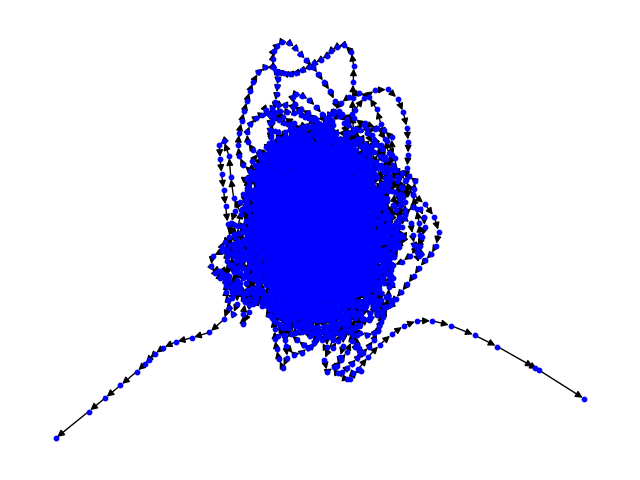
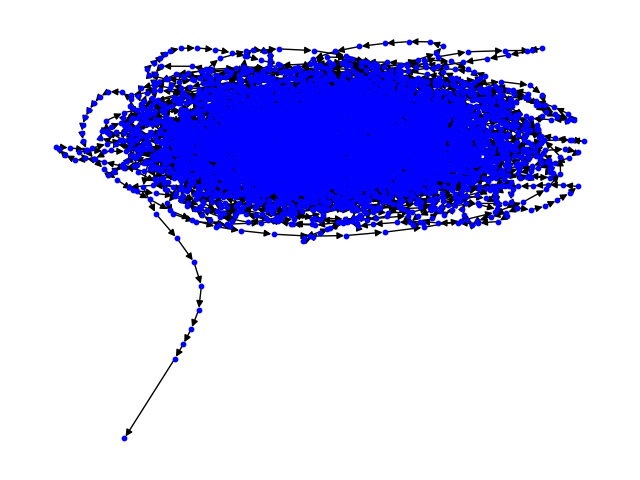
final

diff --git a/debruijn/debruijn.py b/debruijn/debruijn.py
@@ -290,34 +290,27 @@ def solve_entry_tips(graph, starting_nodes):
 
 
     :param graph: (nx.DiGraph) A directed graph object
-    :return: (nx.DiGraph) A directed graph object
+    :param starting_nodes: (list) List of starting nodes
+    :return: (nx.DiGraph) A directed graph object without unwanted entry paths
     """
 
 
-    nodes_with_multiple_predecessors = [node for node, degree in graph.in_degree() if degree > 1]
-    
-    for node in nodes_with_multiple_predecessors:
+
+
+    for node in list(graph.nodes):
+        all_paths_for_node = []
         predecessors = list(graph.predecessors(node))
-        
-        if any(predecessor in starting_nodes for predecessor in predecessors):
-            # Extract paths from starting nodes to the current node
-            paths_from_starting = [list(nx.all_simple_paths(graph, source=start, target=node))[0] for start in starting_nodes if nx.has_path(graph, start, node)]
-            
-            # Calculate the weights of these paths
-            path_weights = []
-            for path in paths_from_starting:
-                weights = [graph[path[i]][path[i+1]].get('weight', 1) for i in range(len(path)-1)]
-                path_weights.append(sum(weights))
-            
-            # Determine the main path
-            main_path_index = path_weights.index(max(path_weights))
-            
-            # Remove other paths
-            for i, path in enumerate(paths_from_starting):
-                if i != main_path_index:
-                    for j in range(len(path) - 1):
-                        graph.remove_edge(path[j], path[j+1])
-    
+        if len(predecessors)>1:
+                for start_node in starting_nodes:
+                    if node not in starting_nodes:
+                        paths =  list(nx.all_simple_paths(graph, start_node, node))
+                        all_paths_for_node.append(paths[0])#toujours un seul path
+                if len(all_paths_for_node)>1 :
+                    path_length = [len(path) for path in all_paths_for_node]
+                    path_weigths = [path_average_weight(graph, all_paths_for_node[i])  if path_length[i] >1 else graph[paths[i][0]][paths[i][1]]["weight"] for i in range(len(all_paths_for_node)) ]
+                    graph = select_best_path(graph, all_paths_for_node,path_length, path_weigths, delete_entry_node=True, delete_sink_node=False)
+                    #graph = solve_entry_tips(graph, starting_nodes)
+                    break
     return graph
 
 
@@ -330,27 +323,22 @@ def solve_out_tips(graph, ending_nodes):
     :param graph: (nx.DiGraph) A directed graph object
     :return: (nx.DiGraph) A directed graph object
     """
-
-
-    # Pour chaque nœud du graphe
-    for node in graph.nodes():
-        # Récupération des successeurs
+    for node in list(graph.nodes):
+        all_paths_for_node = []
         successors = list(graph.successors(node))
-        
-        # Si le nœud a plus d'un successeur
-        if len(successors) > 1:
-            # Récupération des poids des arêtes vers les successeurs
-            weights = [graph[node][succ]['weight'] for succ in successors]
-            
-            # On supprime l'arête avec le poids le plus faible
-            min_weight = min(weights)
-            for succ in successors:
-                if graph[node][succ]['weight'] == min_weight:
-                    graph.remove_edge(node, succ)
-                    break  # On sort de la boucle dès la suppression
-
-
+        if len(successors)>1:
+                for end_node in ending_nodes:
+                    if node not in ending_nodes:
+                        paths =  list(nx.all_simple_paths(graph, node, end_node))
+                        all_paths_for_node.append(paths[0])#toujours un seul path
+                if len(all_paths_for_node)>1 :
+                    path_length = [len(path) for path in all_paths_for_node]
+                    path_weigths = [path_average_weight(graph, all_paths_for_node[i])  if path_length[i] >1 else graph[paths[i][0]][paths[i][1]]["weight"] for i in range(len(all_paths_for_node)) ]
+                    graph = select_best_path(graph, all_paths_for_node,path_length, path_weigths, delete_entry_node=False, delete_sink_node=True)
+                    #graph = solve_out_tips(graph, ending_nodes)
+                    break
     return graph
+
 
 
 def get_starting_nodes(graph):
@@ -376,7 +364,6 @@ def get_sink_nodes(graph):
     for node in graph.nodes():
         if not any(graph.successors(node)):
             sink_nodes.append(node)
-    print(sink_nodes)
     return sink_nodes
 
 def get_contigs(graph, starting_nodes, ending_nodes):
@@ -390,9 +377,7 @@ def get_contigs(graph, starting_nodes, ending_nodes):
     contigs = []
 
     for start_node in starting_nodes:
-        print("ICCCII",start_node)
         for end_node in ending_nodes:
-            print("LAAA",start_node)
 
             if nx.has_path(graph, start_node, end_node):
                 paths = nx.all_simple_paths(graph, source=start_node, target=end_node)
@@ -477,13 +462,21 @@ def main(): # pragma: no cover
     
     #Partie b
     digraph = build_graph(kmer_dict)
+    digraph = simplify_bubbles(digraph)
+
     # Identification des nœuds d'entrée et de sortie
     entrance_nodes = get_starting_nodes(digraph)
+
     #print("entrance_nodes : ", entrance_nodes)
     output_nodes = get_sink_nodes(digraph)
-    digraph = simplify_bubbles(digraph)
+
     digraph = solve_entry_tips(digraph, entrance_nodes)
+
     digraph = solve_out_tips(digraph, output_nodes)
+    entrance_nodes = get_starting_nodes(digraph)
+
+    #print("entrance_nodes : ", entrance_nodes)
+    output_nodes = get_sink_nodes(digraph)
     #print("output_nodes : ", output_nodes)
     # Extraction des contigs
     contigs = get_contigs(digraph, entrance_nodes, output_nodes)
